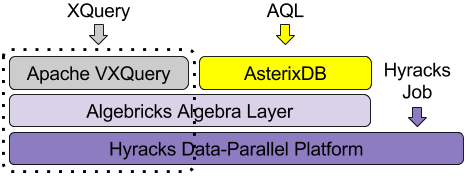
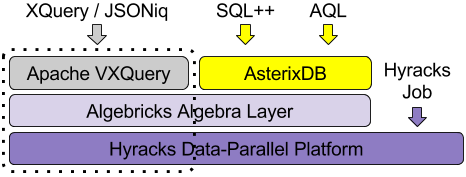
Preparing the site for the next release.
- Updating the index page to highlight JSONiq extension to XQuery.
- Fixing issue with JavaDocs.
- Adding contribution details with git commands.

Changed region(s): [[0.4506, 0.0, 0.7511, 0.2542], [0.0601, 0.0, 0.3605, 0.113], [0.1803, 0.1412, 0.2403, 0.2542]]

diff --git a/vxquery-core/src/main/java/org/apache/vxquery/runtime/functions/util/FunctionHelper.java b/vxquery-core/src/main/java/org/apache/vxquery/runtime/functions/util/FunctionHelper.java
@@ -1359,15 +1359,16 @@ public class FunctionHelper {
     }
 
     /**
-     * Writes a number to the DataOutput with zeros as place holders if the number is too small to fill the padding.
+     * Writes a number to the string builder with zeros as place holders if the number is too small to fill the padding.
      *
      * @param valueArg
      *            value
      * @param paddingArg
      *            padding
-     * @param dOut
-     *            data output
+     * @param sb
+     *            string builder
      * @throws IOException
+     *             Could not save result.
      */
     public static void writeNumberWithPadding(long valueArg, int paddingArg, UTF8StringBuilder sb) throws IOException {
         long value = valueArg;

diff --git a/vxquery-core/src/main/java/org/apache/vxquery/runtime/functions/step/DescendantOrSelfPathStepUnnesting.java b/vxquery-core/src/main/java/org/apache/vxquery/runtime/functions/step/DescendantOrSelfPathStepUnnesting.java
@@ -20,7 +20,6 @@ import java.io.IOException;
 import java.util.ArrayList;
 import java.util.List;
 
-import org.apache.hyracks.algebricks.common.exceptions.AlgebricksException;
 import org.apache.hyracks.api.context.IHyracksTaskContext;
 import org.apache.hyracks.api.exceptions.HyracksDataException;
 import org.apache.hyracks.data.std.api.IPointable;
@@ -141,7 +140,7 @@ public class DescendantOrSelfPathStepUnnesting extends AbstractForwardAxisPathSt
      * @param result
      *            result
      * @return found result
-     * @throws AlgebricksException
+     * @throws HyracksDataException
      *             Could not save result.
      */
     protected boolean stepNodeTree(TaggedValuePointable tvpInput, int level, IPointable result)

diff --git a/vxquery-core/src/main/java/org/apache/vxquery/runtime/functions/step/ChildPathStepUnnesting.java b/vxquery-core/src/main/java/org/apache/vxquery/runtime/functions/step/ChildPathStepUnnesting.java
@@ -18,7 +18,6 @@ package org.apache.vxquery.runtime.functions.step;
 
 import java.io.IOException;
 
-import org.apache.hyracks.algebricks.common.exceptions.AlgebricksException;
 import org.apache.hyracks.api.context.IHyracksTaskContext;
 import org.apache.hyracks.api.exceptions.HyracksDataException;
 import org.apache.hyracks.data.std.api.IPointable;
@@ -109,7 +108,7 @@ public class ChildPathStepUnnesting extends AbstractForwardAxisPathStep {
      * @param result
      *            result
      * @return found result
-     * @throws AlgebricksException
+     * @throws HyracksDataException
      *             Could not save result.
      */
     protected boolean stepNodeTree(TaggedValuePointable tvpInput, int level, IPointable result)
